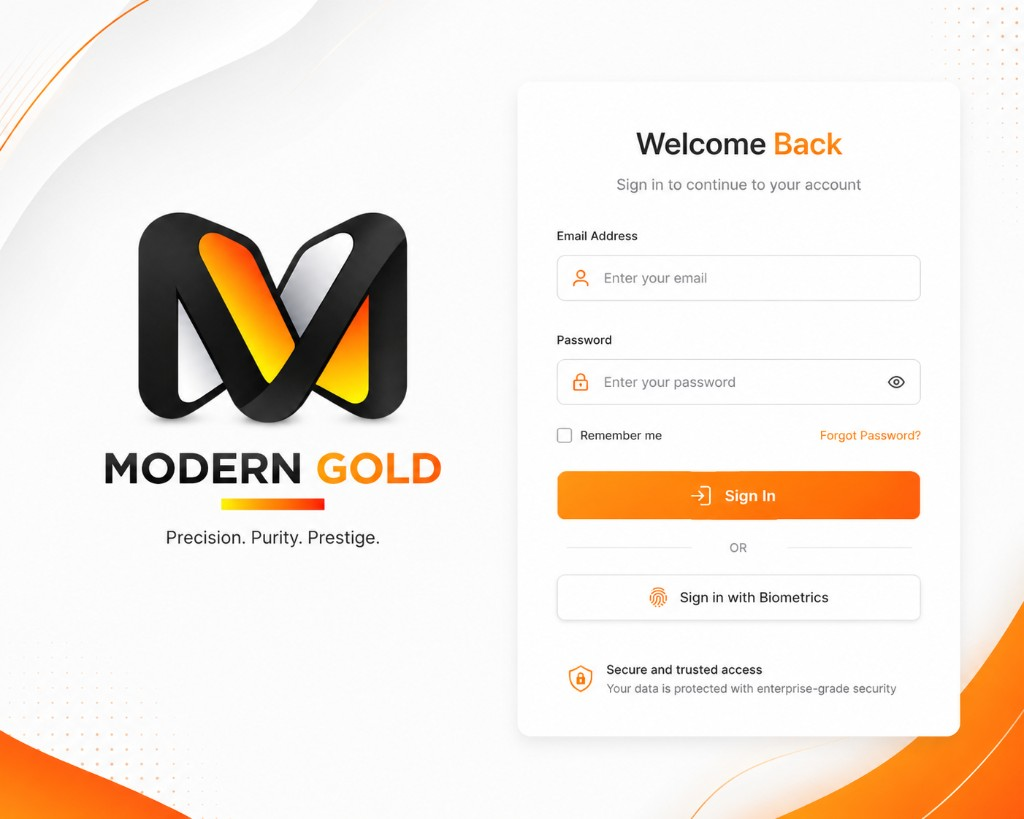
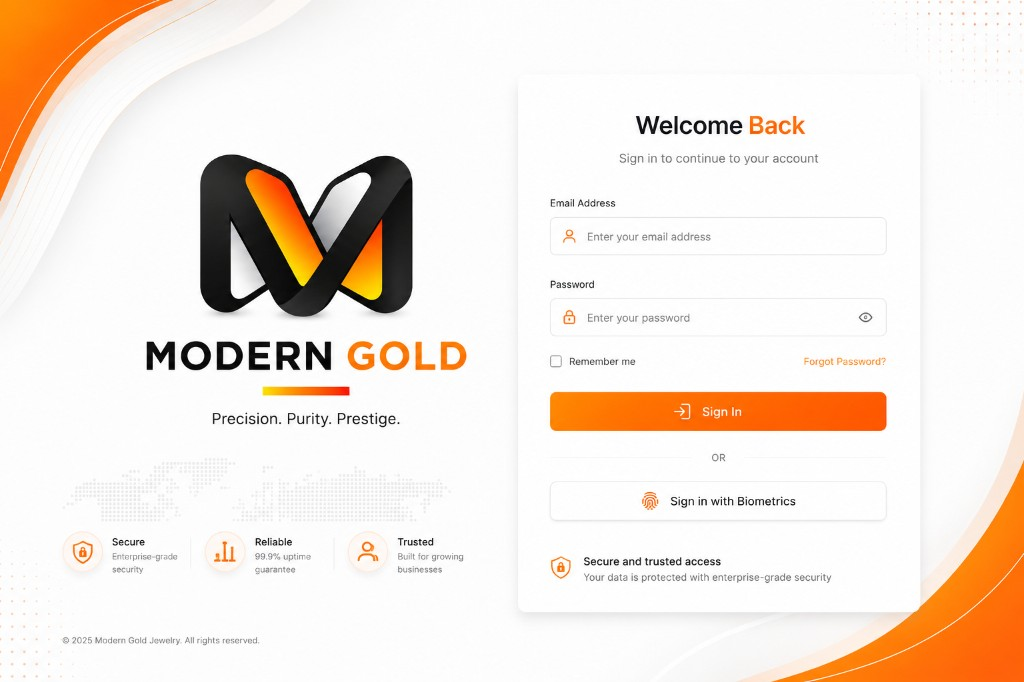
Replace MG login mockup with the new Modern Gold sign-in design.
Retune full-bleed overlay coordinates to the 1024x682 card so username, password, eye, and Sign In hitboxes align.

diff --git a/frontend/src/pages/Login.jsx b/frontend/src/pages/Login.jsx
@@ -41,29 +41,29 @@ function MgLoginShell({
     return () => window.removeEventListener('resize', updateViewport)
   }, [])
 
-  // Full-bleed mockup (1024x819) stretched to viewport; overlays use independent X/Y scale.
+  // Full-bleed mockup (1024x682) stretched to viewport; overlays use independent X/Y scale.
   const designWidth = 1024
-  const designHeight = 819
+  const designHeight = 682
   const scaleX = viewport.width / designWidth
   const scaleY = viewport.height / designHeight
   const sx = (value) => value * scaleX
   const sy = (value) => value * scaleY
 
   // Measured field boxes on the mockup (inner white inputs on the right card).
-  const fieldLeft = 563
-  const fieldWidth = 352
-  const fieldHeight = 44
-  const userTop = 256
-  const passTop = 360
+  const fieldLeft = 554
+  const fieldWidth = 328
+  const fieldHeight = 38
+  const userTop = 217
+  const passTop = 298
   const iconGutter = 42
-  const eyeLeft = 880
+  const eyeLeft = 848
   const eyeWidth = 36
-  const submitLeft = 558
-  const submitTop = 472
-  const submitWidth = 362
-  const submitHeight = 46
-  const noticeLeft = 558
-  const noticeWidth = 362
+  const submitLeft = 551
+  const submitTop = 393
+  const submitWidth = 335
+  const submitHeight = 37
+  const noticeLeft = 551
+  const noticeWidth = 335
 
   const inputStyle = {
     position: 'absolute',
@@ -112,7 +112,7 @@ function MgLoginShell({
               style={{
                 position: 'absolute',
                 left: sx(noticeLeft),
-                top: sy(205),
+                top: sy(160),
                 width: sx(noticeWidth),
                 minHeight: sy(28),
                 border: '1px solid #F0D58A',
@@ -132,7 +132,7 @@ function MgLoginShell({
               style={{
                 position: 'absolute',
                 left: sx(noticeLeft),
-                top: sy(idleNotice ? 238 : 205),
+                top: sy(idleNotice ? 188 : 160),
                 width: sx(noticeWidth),
                 minHeight: sy(28),
                 border: '1px solid #F0C9C9',
